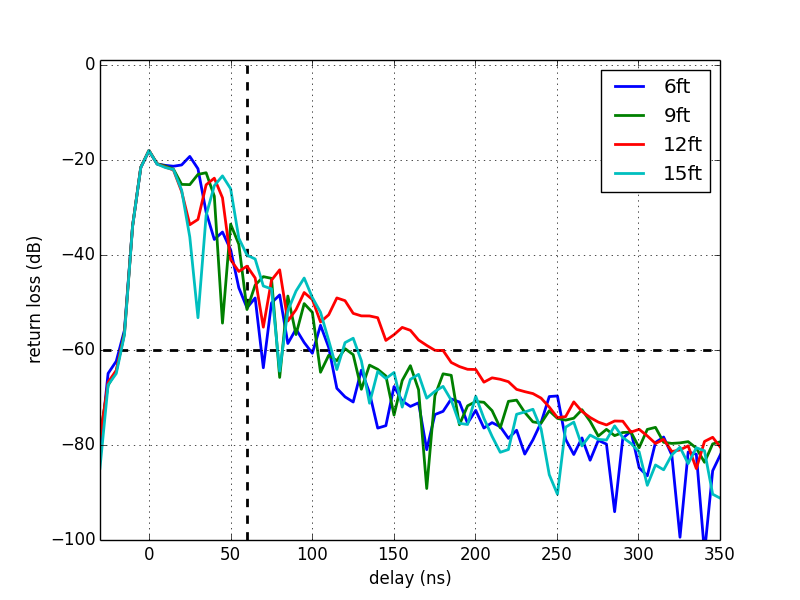
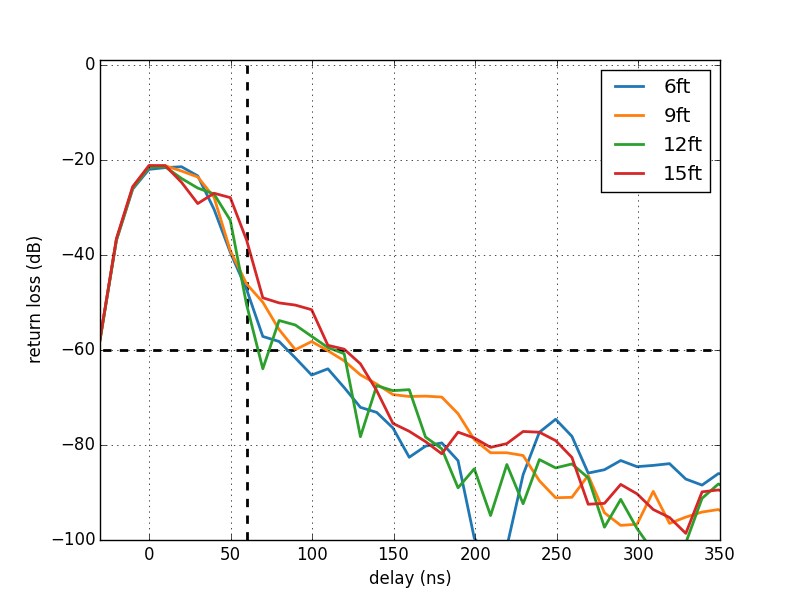
updated the plots for colors

diff --git a/plots/plot_frequency.py b/plots/plot_frequency.py
@@ -9,6 +9,7 @@ def fromcsv(filename):
     x = n.array(list(d)[18:-1], dtype=n.float)
     return x[:,0]/1e9, x[:,1]
 
+colors = n.array([(31,119,180), (255,127,14), (44,160,44), (214,39,40), (127,127,127), (148,103,189)])/255.
 
 #file_base = sys.argv[1]
 file_base = '../alldata/NC41_12'
@@ -32,7 +33,8 @@ p.legend()
 
 
 fig, (ax1,ax2) = p.subplots(2,1, figsize=(10,5), sharex=True)
-ax1.plot(freqs, amps, linewidth=3, label='amplitude', color=(0,107/255.,164/255.))
+#ax1.plot(freqs, amps, linewidth=3, label='amplitude', color=(0,107/255.,164/255.))
+ax1.plot(freqs, amps, linewidth=3, label='amplitude', color=colors[0])
 ax1.set_ylabel('Return Loss (dB)')
 ax1.grid(1)
 #ax1.set_xlim(.05,.250)
@@ -42,7 +44,8 @@ ax1.vlines(.1, -100, 100, linestyle='--', linewidth=2)
 ax1.vlines(.2, -100, 100, linestyle='--', linewidth=2)
 ax1.legend()
 
-ax2.plot(freqs, phase*n.pi/180., linewidth=3, label='phase', color=(1,128/255.,14/255.))
+#ax2.plot(freqs, phase*n.pi/180., linewidth=3, label='phase', color=(1,128/255.,14/255.))
+ax2.plot(freqs, phase*n.pi/180., linewidth=3, label='phase', color=colors[1])
 ax2.set_xlabel('Frequency (GHz)' )
 ax2.set_ylabel('Return Loss (dB)')
 ax2.grid(1)

diff --git a/plots/plot_heights.py b/plots/plot_heights.py
@@ -26,6 +26,9 @@ def take_delay(db, ph, fq, window='blackman-harris'):
 
     return n.fft.fftshift(_dw), n.fft.fftshift(_d), n.fft.fftshift(tau)
 
+
+colors = n.array([(31,119,180), (255,127,14), (44,160,44), (214,39,40), (127,127,127), (148,103,189)])/255.
+
 #file_base = sys.argv[1]
 file_base = '../alldata/NC41_'
 amp_end = '_DB.csv'
@@ -39,7 +42,7 @@ for i,v in enumerate(valids):
     #bandwidth = n.where(n.logical_and(fq>.05 ,fq<.25)) #HERA bandwidth
     bandwidth = n.where(n.logical_and(fq>.1,fq<.2)) #PAPER bandwidth
     dw, d, tau = take_delay(amps[bandwidth], phs[bandwidth], fq[bandwidth])
-    p.plot(tau, 10*n.log10(n.abs(dw)**2), linewidth=2, label=('%s'%v)+'ft')
+    p.plot(tau, 10*n.log10(n.abs(dw)**2), linewidth=2, label=('%s'%v)+'ft', color=colors[i])
 p.xlim(-30,350)
 p.ylim(-100, 1)
 p.vlines(60, -100,100, linestyle='--', linewidth=2)

diff --git a/plots/plot_bh_vs_sq.py b/plots/plot_bh_vs_sq.py
@@ -25,6 +25,9 @@ def take_delay(db, ph, fq, window='blackman-harris'):
 
     return n.fft.fftshift(_dw), n.fft.fftshift(_d), n.fft.fftshift(tau)
 
+colors = n.array([(31,119,180), (255,127,14), (44,160,44), (214,39,40), (127,127,127), (148,103,189)])/255.
+
+
 #file_base = sys.argv[1]
 file_base = '../alldata/NC41_12'
 amp = '_DB.csv'
@@ -34,8 +37,8 @@ fq, phs= fromcsv(file_base + phs)
 
 valid = n.where(n.logical_and(fq>.1, fq<.2))
 dw, d, tau = take_delay(amps[valid], phs[valid], fq[valid])
-p.plot(tau, 10*n.log10(n.abs(dw)**2), linewidth=2, label='blackman-harris')
-p.plot(tau, 10*n.log10(n.abs(d)**2), linewidth=2, label='square')
+p.plot(tau, 10*n.log10(n.abs(dw)**2), linewidth=2, label='blackman-harris', color=colors[0])
+p.plot(tau, 10*n.log10(n.abs(d)**2), linewidth=2, label='square', color = colors[1])
 
 p.xlim(-30,350) 
 p.ylim(-100, 1)

diff --git a/plots/plot_delay3.py b/plots/plot_delay3.py
@@ -25,6 +25,9 @@ def take_delay(db, ph, fq, window='blackman-harris'):
 
     return n.fft.fftshift(_dw), n.fft.fftshift(_d), n.fft.fftshift(tau)
 
+
+colors = n.array([(31,119,180), (255,127,14), (44,160,44), (214,39,40), (127,127,127), (148,103,189)])/255.
+
 #file_base = sys.argv[1]
 file_base = '../alldata/NC41_12'
 amp = '_DB.csv'
@@ -56,7 +59,7 @@ valids = {
 for i,v in enumerate(valids.keys()):
     dw, d, tau = take_delay(amps[valids[v]], phs[valids[v]], fq[valids[v]])
     print v
-    p.plot(tau, 10*n.log10(n.abs(dw)**2), linewidth=2, label='%s'%v)
+    p.plot(tau, 10*n.log10(n.abs(dw)**2), linewidth=2, label='%s'%v, color=colors[i])
 p.xlim(-30,350) 
 p.ylim(-100, 1)
 p.vlines(60, -100,100, linestyle='--', linewidth=2)

diff --git a/plots/plot_reflectometry.py b/plots/plot_reflectometry.py
@@ -35,6 +35,7 @@ for filename in sys.argv[1:]:
         _dw *= np.abs(_d[0])
         _d *= np.abs(_d[0])
 
+    print np.abs(_d[0])
     #plt.figure(1); plt.semilogy(fq, np.abs(d)**2, label=BASE)
 
     #plt.figure(2)
